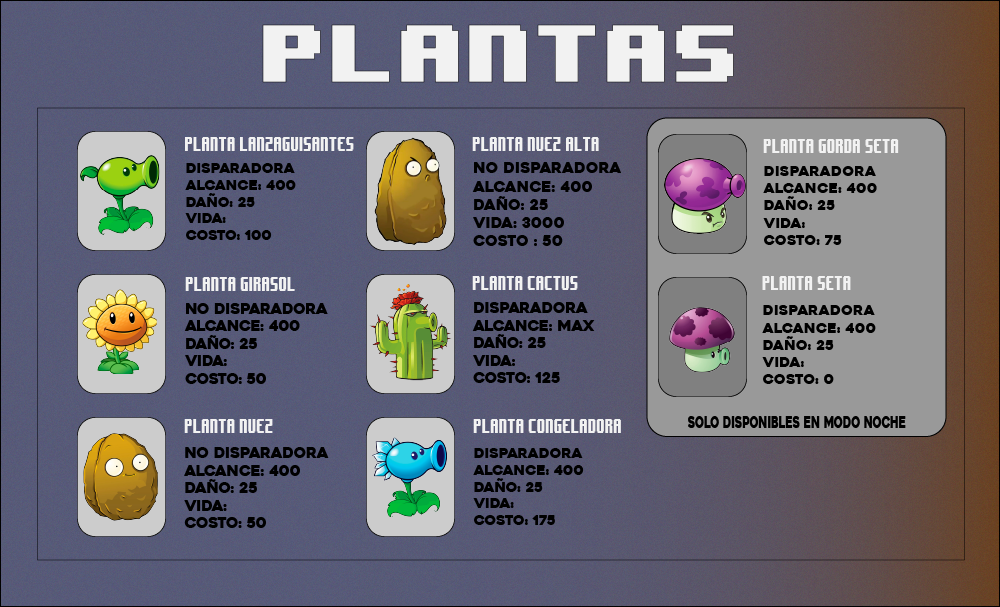
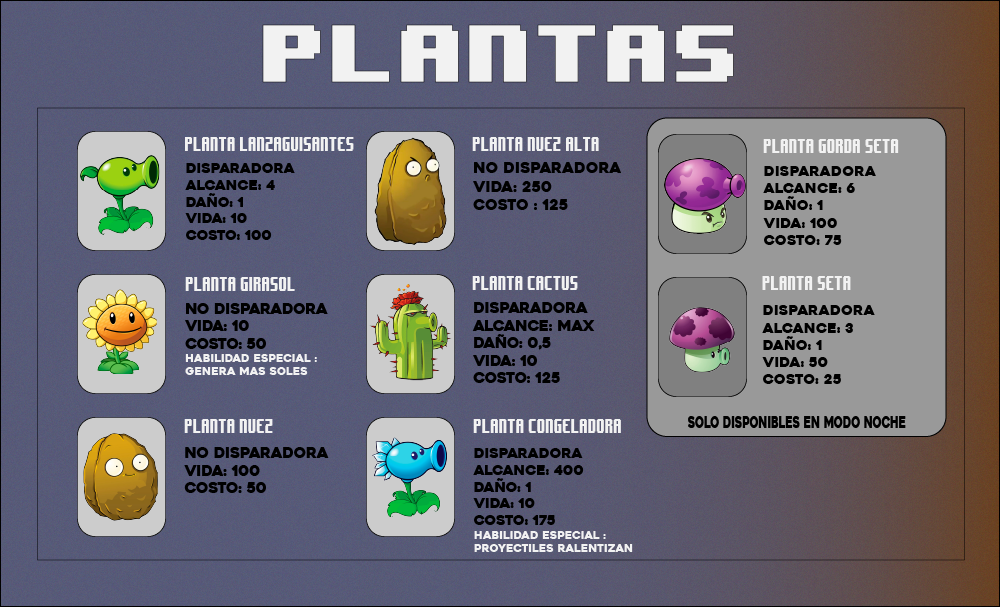
Mas cambios

diff --git a/src/GUI/mainGUI.java b/src/GUI/mainGUI.java
@@ -45,7 +45,7 @@ public final class mainGUI extends JFrame implements Runnable {
 	public Thread hiloJuego;
 	private AudioPlayer ap;
 	private Thread hiloMusica;
-	protected int velocidad = 100;
+	protected int velocidad = 120;
 	protected boolean gameStart = false;
 	protected JButton btnPlanta1;
 	protected JButton btnPlanta2;
@@ -56,7 +56,7 @@ public final class mainGUI extends JFrame implements Runnable {
 	protected JButton btnPlanta7;
 	protected JButton btnPlanta8;
 	protected JToggleButton btnAudio;
-	protected int seleccionNivel,seleccionModo;
+	protected int seleccionModo;
 	protected int opcion = 0;
 	protected JLabel lblNuevaHorda;
 	protected JLabel lblNuevoNivel;
@@ -251,12 +251,9 @@ public final class mainGUI extends JFrame implements Runnable {
 		btnJugar.setOpaque(false);
 		btnJugar.addActionListener(new ActionListener() {
 			public void actionPerformed(ActionEvent e) {
-
-				seleccionNivel = JOptionPane.showOptionDialog(menuPanel,"Seleccione el nivel de dificultad", ""
-						,JOptionPane.YES_NO_CANCEL_OPTION,JOptionPane.PLAIN_MESSAGE,null,new Object[] { "NIVEL 1", "NIVEL 2"},"opcion1"); 
 				seleccionModo = JOptionPane.showOptionDialog(menuPanel,"Seleccione el modo de juego", ""
 						,JOptionPane.YES_NO_CANCEL_OPTION,JOptionPane.PLAIN_MESSAGE,null,new Object[] { "MODO DIA", "MODO NOCHE"},"opcion1"); 
-				if(seleccionNivel != JOptionPane.CLOSED_OPTION && seleccionModo != JOptionPane.CLOSED_OPTION) {
+				if(seleccionModo != JOptionPane.CLOSED_OPTION) {
 					iniciarNuevoJuego();	
 				}
 
@@ -315,7 +312,6 @@ public final class mainGUI extends JFrame implements Runnable {
 		mapPanel.setOpaque(false);
 		inGamePanel.add(mapPanel);
 		mapPanel.setLayout(null);
-		inGamePanel.setComponentZOrder(mapPanel, 0);
 		
 	}
 
@@ -324,8 +320,8 @@ public final class mainGUI extends JFrame implements Runnable {
 		menuPanel.setVisible(true);
 		inGamePanel.setVisible(false);
 		gameStart = false;
-
-
+		mapPanel = null;
+		matrizGrafica = null;
 	}
 
 	private void pintarMatriz() {
@@ -407,6 +403,13 @@ public final class mainGUI extends JFrame implements Runnable {
 			btnPlanta8.setEnabled(false);
 			btnPlanta7.setEnabled(false);
 		}
+		if(miLogica.getSoles()>=25) {
+			if(miLogica.printGameState() == "NOCHE")
+				btnPlanta7.setEnabled(true);
+		}
+		else {
+			btnPlanta7.setEnabled(false);
+		}
 		if(miLogica.getSoles()>=50) {
 			btnPlanta2.setEnabled(true);
 			btnPlanta3.setEnabled(true);
@@ -477,7 +480,7 @@ public final class mainGUI extends JFrame implements Runnable {
 		newMapPanel();
 		matrizGrafica = new Celda[cantFilas][cantColumnas];
 		miLogica = null;
-		miLogica = Logica.getInstancia(seleccionNivel, seleccionModo);
+		miLogica = Logica.getInstancia(seleccionModo);
 		menuPanel.setVisible(false);
 		inGamePanel.setVisible(true);
 		lblCantSoles.setText("" + miLogica.getSoles());
@@ -496,15 +499,13 @@ public final class mainGUI extends JFrame implements Runnable {
 		ImageIcon imgNuevoNivel = new ImageIcon(this.getClass().getResource("/Images/CambioNivel.png"));
 		int seleccion;
 		seleccion = JOptionPane.showOptionDialog(menuPanel,"", "FELICITACIONES!"
-				,JOptionPane.YES_NO_CANCEL_OPTION,JOptionPane.PLAIN_MESSAGE,imgNuevoNivel,new Object[] { "SIGUIENTE NIVEL", "SALIR"},"opcion1"); 
+				,JOptionPane.YES_NO_CANCEL_OPTION,JOptionPane.PLAIN_MESSAGE,imgNuevoNivel,new Object[] { "SIGUIENTE NIVEL"},"opcion1"); 
 		if(seleccion == 0) {
 			mapPanel = null;
 			matrizGrafica = new Celda[cantFilas][cantColumnas];
 			newMapPanel();
+			inGamePanel.setComponentZOrder(mapPanel, 1);
 			pintarMatriz();
-		}
-		else {
-			backToMenu();
 		}
 	}
 

diff --git a/src/Logica/Logica.java b/src/Logica/Logica.java
@@ -23,8 +23,8 @@ public final class Logica {
 	private int soles;
 	private String grass;
 	private String grassVariante;
-	private final String obstaculo = "sand.png";
-	private final int limiteZombies = 20;
+	private String obstaculo;
+	private final int limiteZombies = 1;
 	protected AbstractFactory miFactoria;
 	protected Fila[] misFilas;
 	protected Planta entidadSeleccionada;
@@ -37,9 +37,9 @@ public final class Logica {
 	private Celda tablero[][];
 	private int zombiesMuertos;
 
-	private Logica(int n,int modo) {
+	private Logica(int modo) {
 		miGUI = mainGUI.getInstancia();
-		nivelActual = getNivel(n);
+		nivelActual = getNivel(0);
 	    state= new DayState(this);
 	    grass= "PastoDia.png";
 	    grassVariante = "PastoDiaOsc.png";
@@ -57,22 +57,23 @@ public final class Logica {
 			miFactoria = new FactoryDay();
 			this.setDayState();
 			misSoles = new SolGenerator(this);
+			obstaculo = "PastoDiaObs.png";
 		}
 		else {
 			miFactoria = new FactoryNight();
 			this.setNightState();
 			misSoles = null;
 			soles = 475;
+			obstaculo = "nightGrassObs.png";
 		}
-		miGeneradorZombie = new TimerZombie(n,modo,this);
-		miControladorDeDisparo = new TimerShoot(n,modo,this);
+		miGeneradorZombie = new TimerZombie(modo,this);
+		miControladorDeDisparo = new TimerShoot(modo,this);
 		cargarMapa();
 	}
 	
-	public static Logica getInstancia(int n, int modo) {
+	public static Logica getInstancia(int modo) {
 		if(miLogica == null) {
-			miLogica = new Logica(n,modo);
-			System.out.println("Nivel es:: " + n);
+			miLogica = new Logica(modo);
 		}
 
 		return miLogica;
@@ -321,13 +322,18 @@ public final class Logica {
 			nivelActual = getNivel(1);
 			cargarMapa();
 			miGUI.nuevoNivel();
+
 			if(misSoles != null){
+				misSoles.detener();
 				misSoles = null;
 				misSoles = new SolGenerator(this);
+				soles = 0;
 			}
 			for(int i=0; i<6; i++) {
 				while(!misFilas[i].getMisPlantas().isEmpty())
 					misFilas[i].getMisPlantas().remove();
+				while(!misFilas[i].getMisZombies().isEmpty())
+					misFilas[i].getMisZombies().remove();
 			}
 		}
 	}

diff --git a/src/Zombie/ClassicZombie.java b/src/Zombie/ClassicZombie.java
@@ -16,7 +16,7 @@ public class ClassicZombie extends Entidad implements VisitorZombie{
 		miEntidadGrafica = new EntidadGrafica(imgPath);
 		state= new WalkState(this);
 		this.vida = 75;
-		this.velocidad = 2;
+		this.velocidad = 3;
 	}
 
 	public void mover() {
@@ -34,7 +34,7 @@ public class ClassicZombie extends Entidad implements VisitorZombie{
 	}
 	
 	public void recibirDanio(int d) {
-		this.vida -= 25;
+		this.vida -= d;
 	}
 
 	public void setVida(int vida) {

diff --git a/src/Plant/Proyectil.java b/src/Plant/Proyectil.java
@@ -12,16 +12,12 @@ public abstract class Proyectil extends Entidad implements VisitorProyectil{
 	public Proyectil(int x, int y) {
 		super(x, y);
 		miRectangulo = new Rectangle(x,y,30,100);
-		danio = 25;
+		danio = 10;
 	}
 
-	protected int cantidadDanio = 2;
-	int aumento = miX;
-	
 	public void moverProyectil() {
 		miX+=15;
 		this.miRectangulo.setBounds(miX, miY, 30, 100);
-
 		miGUI.moverProyectil(miEntidadGrafica.getMiLabel(), miX, miY);
 	}
 	

diff --git a/src/Zombie/HolderZombie.java b/src/Zombie/HolderZombie.java
@@ -2,13 +2,13 @@ package Zombie;
 
 import Logica.EntidadGrafica;
 
-//Tu y yo nena nivel 100 B)
 public class HolderZombie extends ClassicZombie{
 
 	public HolderZombie(int x, int y) {
 		super(x, y);
 		imgPath = "HolderZombie.gif";
 		vida = 200;
+		velocidad = 2;
 		miEntidadGrafica = new EntidadGrafica(imgPath);
 	}
 

diff --git a/src/Zombie/TimerZombie.java b/src/Zombie/TimerZombie.java
@@ -12,7 +12,7 @@ public class TimerZombie implements Runnable {
 	protected int velocidadDeAparicion;
 	protected final int limiteHordaZombie = 12;
 	
-	public TimerZombie(int n,int modo,Logica l) {
+	public TimerZombie(int modo,Logica l) {
 		miG = mainGUI.getInstancia();
 		miLogica = l;
 		hiloZombie = new Thread (this);

diff --git a/src/Plant/PlantaSeta.java b/src/Plant/PlantaSeta.java
@@ -10,8 +10,10 @@ public class PlantaSeta extends Planta{
 	public PlantaSeta(int x,int y) {
 		super(x,y);
 		imgPath = "seta.gif";
-		costo = 0;
+		costo = 25;
+		vida = 50;
 		disparadora = true;
+		alcance = 300;
 		miRectangulo = new Rectangle(x,y,20,100);
 		miEntidadGrafica = new EntidadGrafica(imgPath);
 	}

diff --git a/src/Plant/TimerShoot.java b/src/Plant/TimerShoot.java
@@ -8,7 +8,7 @@ public class TimerShoot implements Runnable {
 	protected boolean gameStart;
 	protected int velocidadDeDisparo;
 	
-	public TimerShoot(int n, int modo,Logica l) {
+	public TimerShoot(int modo,Logica l) {
 		miLogica = l;
 		hiloDisparo = new Thread (this);
 		hiloDisparo.start();

diff --git a/src/Plant/PlantaGordaSeta.java b/src/Plant/PlantaGordaSeta.java
@@ -8,7 +8,8 @@ public class PlantaGordaSeta extends Planta {
 	public PlantaGordaSeta(int x, int y) {
 		super(x, y);
 		costo = 75;
-		vida = 1000;
+		vida = 100;
+		alcance = 600;
 		imgPath = "GordaSeta.gif";
 		disparadora = true;
 		miEntidadGrafica = new EntidadGrafica(imgPath);

diff --git a/src/Logica/Entidad.java b/src/Logica/Entidad.java
@@ -9,7 +9,7 @@ public abstract class Entidad{
 	protected int miX;
 	protected int miY;
 	protected String imgPath;
-	protected int costo; //CAMBIAR
+	protected int costo;
 	protected Rectangle miRectangulo;
 	protected mainGUI miGUI;
 	protected EntidadGrafica miEntidadGrafica;

diff --git a/src/Plant/PlantaGirasol.java b/src/Plant/PlantaGirasol.java
@@ -13,7 +13,7 @@ public class PlantaGirasol extends Planta{
 		costo = 50;
 		imgPath = "Girasol.gif";
 		miEntidadGrafica = new EntidadGrafica(imgPath);
-		miL = Logica.getInstancia(0,0);
+		miL = Logica.getInstancia(0);
 		miL.aumentarVelocidadDeAparicion();
 
 	}

diff --git a/src/Zombie/ConeZombie.java b/src/Zombie/ConeZombie.java
@@ -6,7 +6,7 @@ public class ConeZombie extends ClassicZombie{
 	
 	public ConeZombie(int x,int y) {
 		super(x,y);
-		this.vida = vida + 10;
+		this.vida = 110;
 		imgPath = "coneZombie.gif";
 		miEntidadGrafica = new EntidadGrafica(imgPath);
 	}
